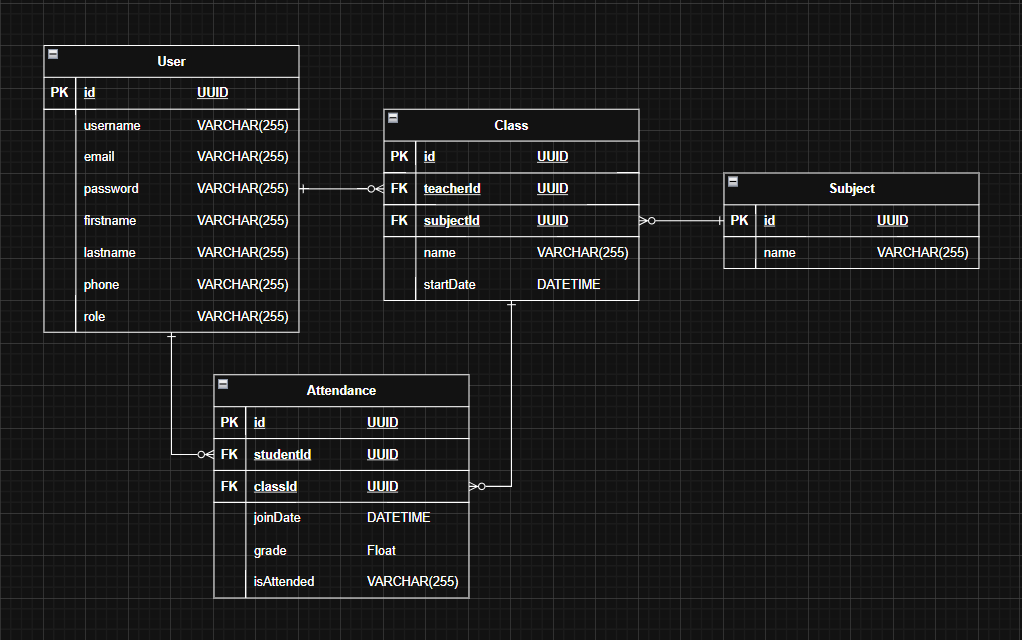
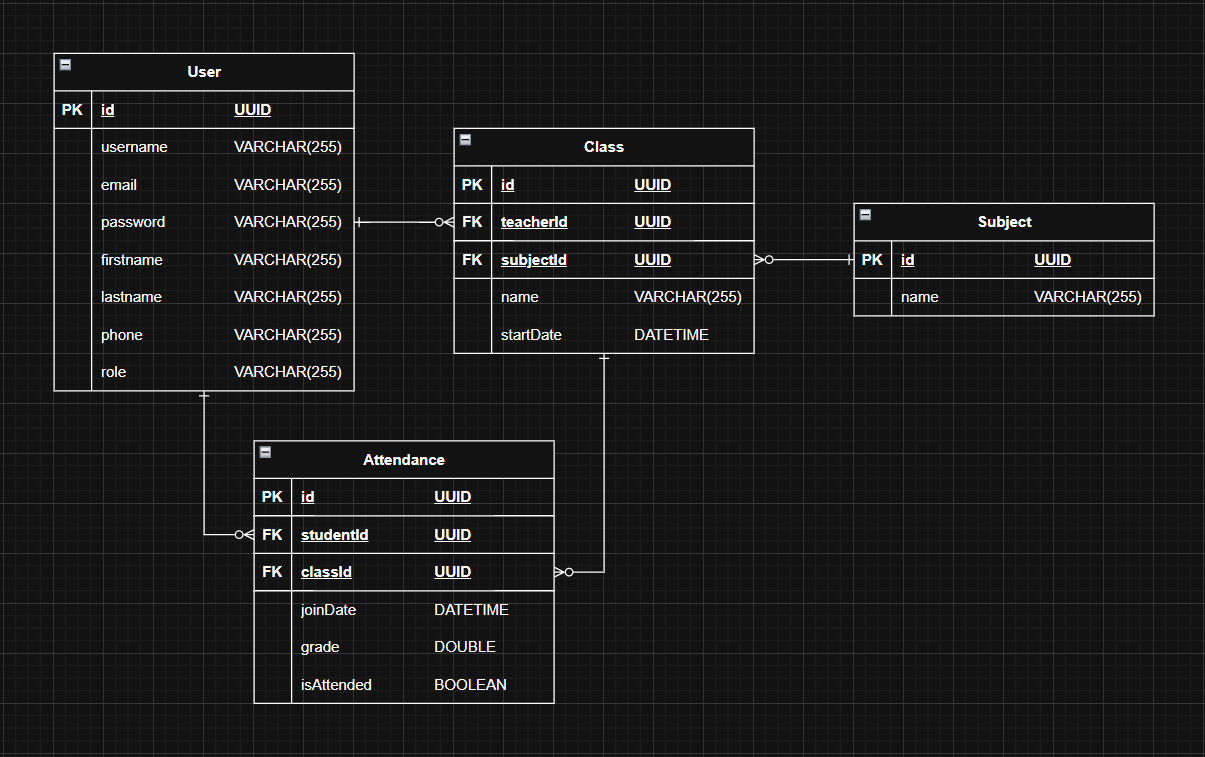
Create Entities and DB change set
Entities:
1. Users
2. Classes
3. Subject
4. Attendance

diff --git a/app/src/main/java/com/attendance/Entity/AppUser.java b/app/src/main/java/com/attendance/Entity/AppUser.java
@@ -6,6 +6,7 @@ import lombok.Getter;
 import lombok.NoArgsConstructor;
 import lombok.Setter;
 
+import java.util.List;
 import java.util.UUID;
 
 @AllArgsConstructor
@@ -20,13 +21,29 @@ public class AppUser {
     @GeneratedValue(strategy = GenerationType.AUTO)
     private UUID id;
 
-    private String name;
+    @Column(name = "user_name", nullable = false)
+    private String userName;
 
-    private String username;
-
+    @Column(nullable = false)
     private String email;
 
+    @Column(nullable = false)
     private String password;
 
+    @Column(name = "first_name", nullable = false)
+    private String firstName;
+
+    @Column(name = "last_name", nullable = false)
+    private String lastName;
+
+    private String phone;
+
+    @Column(nullable = false)
     private String role;
+
+    @OneToMany(mappedBy="teacher", cascade = CascadeType.ALL, orphanRemoval = true)
+    private List<Class> classes;
+
+    @OneToMany(mappedBy="student", cascade = CascadeType.ALL, orphanRemoval = true)
+    private List<Attendance> attendances;
 }

diff --git a/app/src/main/java/com/attendance/Entity/Class.java b/app/src/main/java/com/attendance/Entity/Class.java
@@ -1,0 +1,40 @@
+package com.attendance.Entity;
+
+import jakarta.persistence.*;
+import lombok.AllArgsConstructor;
+import lombok.Getter;
+import lombok.NoArgsConstructor;
+import lombok.Setter;
+
+import java.time.LocalDateTime;
+import java.util.List;
+import java.util.UUID;
+
+@AllArgsConstructor
+@NoArgsConstructor
+
+@Getter
+@Setter
+@Entity
+@Table(name = "classes")
+public class Class {
+    @Id
+    @GeneratedValue(strategy = GenerationType.AUTO)
+    private UUID id;
+
+    private String name;
+
+    @Column(name = "start_date", nullable = false)
+    private LocalDateTime startDate;
+
+    @ManyToOne(fetch = FetchType.LAZY)
+    @JoinColumn(name = "teacher_id", nullable = false)
+    private AppUser teacher;
+
+    @ManyToOne(fetch = FetchType.LAZY)
+    @JoinColumn(name = "subject_id", nullable = false)
+    private Subject subject;
+
+    @OneToMany(mappedBy="aClass", cascade = CascadeType.ALL, orphanRemoval = true)
+    private List<Attendance> attendances;
+}

diff --git a/app/src/main/java/com/attendance/Entity/Attendance.java b/app/src/main/java/com/attendance/Entity/Attendance.java
@@ -1,0 +1,38 @@
+package com.attendance.Entity;
+import jakarta.persistence.*;
+import lombok.AllArgsConstructor;
+import lombok.Getter;
+import lombok.NoArgsConstructor;
+import lombok.Setter;
+
+import java.time.LocalDateTime;
+import java.util.UUID;
+
+@AllArgsConstructor
+@NoArgsConstructor
+
+@Getter
+@Setter
+@Entity
+@Table(name = "attendances")
+public class Attendance {
+    @Id
+    @GeneratedValue(strategy = GenerationType.AUTO)
+    private UUID id;
+
+    @Column(name = "join_date", nullable = false)
+    private LocalDateTime joinDate;
+
+    private double grade;
+
+    @Column(name = "is_attended", nullable = false)
+    private boolean isAttended;
+
+    @ManyToOne(fetch = FetchType.LAZY)
+    @JoinColumn(name = "student_id", nullable = false)
+    private AppUser student;
+
+    @ManyToOne(fetch = FetchType.LAZY)
+    @JoinColumn(name = "class_id", nullable = false)
+    private Class aClass;
+}

diff --git a/app/src/main/java/com/attendance/Controller/UserController.java b/app/src/main/java/com/attendance/Controller/UserController.java
@@ -39,7 +39,7 @@ public class UserController {
     public ResponseEntity<Object> signin(@RequestBody UserSignInDTO userSignInDTO, HttpSession session)
     {
         // Get authentication
-        Authentication authentication = authenticationManager.authenticate(new UsernamePasswordAuthenticationToken(userSignInDTO.getUsername(), userSignInDTO.getPassword()));
+        Authentication authentication = authenticationManager.authenticate(new UsernamePasswordAuthenticationToken(userSignInDTO.getUserName(), userSignInDTO.getPassword()));
         SecurityContextHolder.getContext().setAuthentication(authentication);
         // Store in session
         session.setAttribute("SPRING_SECURITY_CONTEXT", SecurityContextHolder.getContext());

diff --git a/app/src/main/java/com/attendance/Entity/Subject.java b/app/src/main/java/com/attendance/Entity/Subject.java
@@ -1,0 +1,27 @@
+package com.attendance.Entity;
+import jakarta.persistence.*;
+import lombok.AllArgsConstructor;
+import lombok.Getter;
+import lombok.NoArgsConstructor;
+import lombok.Setter;
+
+import java.util.List;
+import java.util.UUID;
+
+@AllArgsConstructor
+@NoArgsConstructor
+
+@Getter
+@Setter
+@Entity
+@Table(name = "subjects")
+public class Subject {
+    @Id
+    @GeneratedValue(strategy = GenerationType.AUTO)
+    private UUID id;
+
+    private String name;
+
+    @OneToMany(mappedBy="subject", cascade = CascadeType.ALL, orphanRemoval = true)
+    private List<Class> classes;
+}

diff --git a/app/src/main/java/com/attendance/authen/AuthenticationService.java b/app/src/main/java/com/attendance/authen/AuthenticationService.java
@@ -21,7 +21,7 @@ public class AuthenticationService implements UserDetailsService {
         if(user.isPresent()){
             var userObj = user.get();
             return org.springframework.security.core.userdetails.User.builder()
-                    .username(userObj.getUsername())
+                    .username(userObj.getUserName())
                     .password(userObj.getPassword())
                     .roles(userObj.getRole())
                     .build();

diff --git a/app/src/main/java/com/attendance/ServiceImpl/UserServiceImpl.java b/app/src/main/java/com/attendance/ServiceImpl/UserServiceImpl.java
@@ -23,7 +23,7 @@ public class UserServiceImpl implements UserService {
         }
 
         AppUser appUser = new AppUser();
-        appUser.setUsername(username);
+        appUser.setUserName(username);
         appUser.setEmail(email);
         appUser.setPassword(passwordEncoder.encode(password));
         appUser.setRole("USER");

diff --git a/app/src/main/java/com/attendance/DTO/UserSignInDTO.java b/app/src/main/java/com/attendance/DTO/UserSignInDTO.java
@@ -14,7 +14,7 @@ import lombok.Setter;
 public class UserSignInDTO {
     @NotNull
     @JsonProperty("username")
-    private String username;
+    private String userName;
 
     @NotNull
     @JsonProperty("password")
